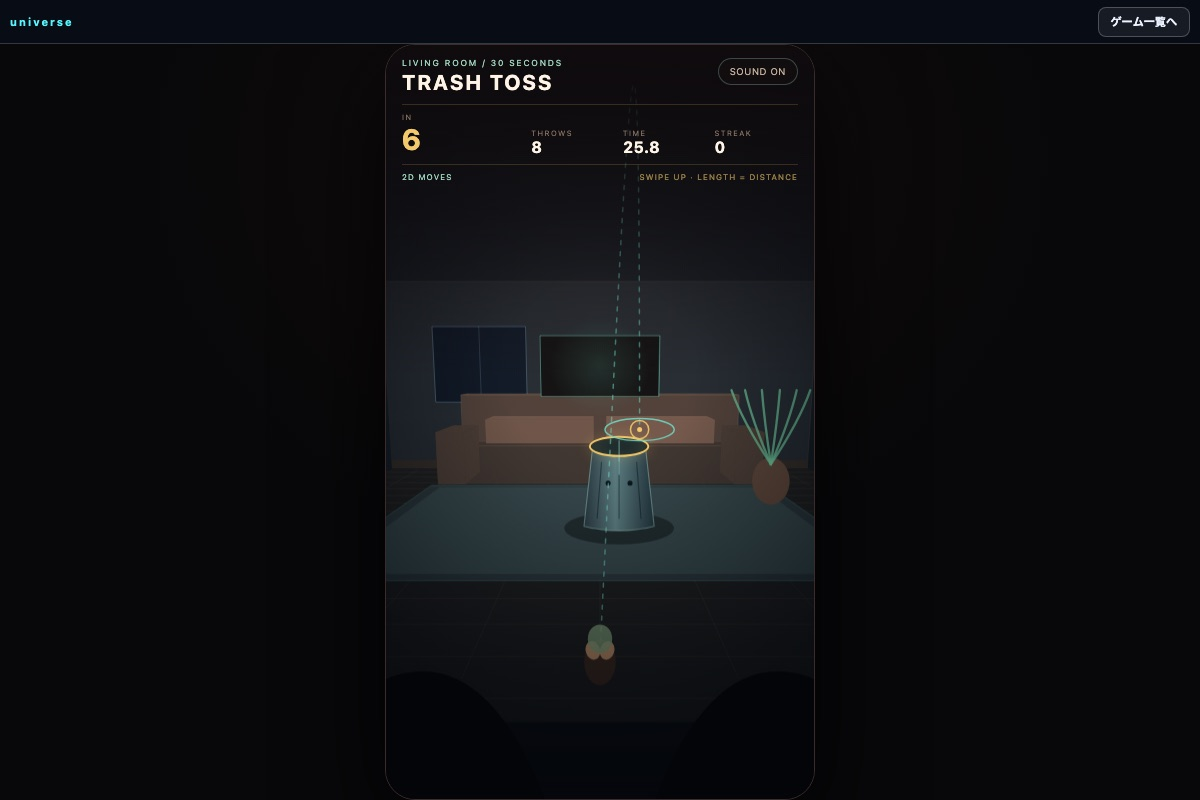
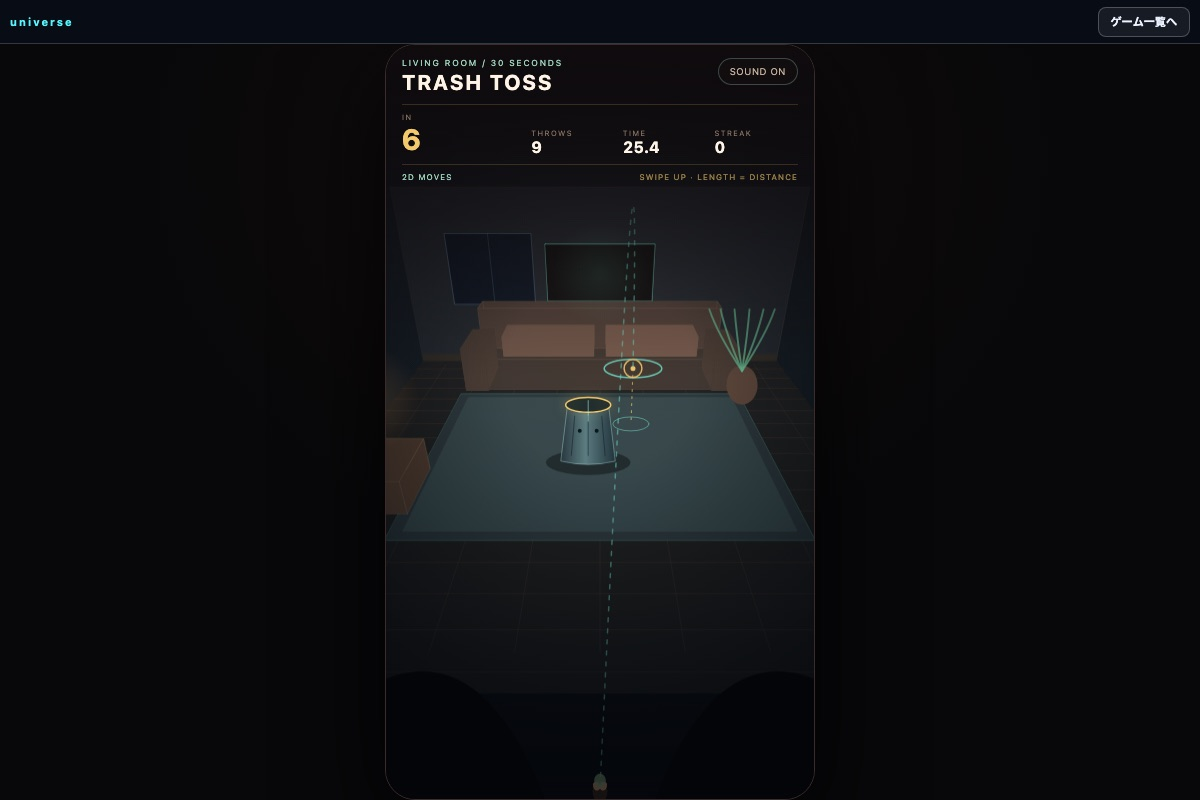
fix: TRASH TOSSのカメラを斜め上35度に調整

diff --git a/projects/_labs/trash-toss/renderer.js b/projects/_labs/trash-toss/renderer.js
@@ -21,9 +21,10 @@
       if (ctx) { ctx.lineCap = 'round'; ctx.lineJoin = 'round'; }
     }
 
+    // Fixed camera: behind the thrower, about 34 degrees down into the room.
     function camera() {
-      var cam = { x: 0, y: 1.65, z: -2.8 };
-      var look = { x: 0, y: 0.55, z: 3.0 };
+      var cam = { x: 0, y: 3.8, z: -2.8 };
+      var look = { x: 0, y: 0.05, z: 2.8 };
       var fx = look.x - cam.x, fy = look.y - cam.y, fz = look.z - cam.z;
       var fl = Math.sqrt(fx * fx + fy * fy + fz * fz);
       var forward = { x: fx / fl, y: fy / fl, z: fz / fl };
@@ -41,7 +42,7 @@
         forward: forward,
         right: right,
         up: { x: ux / ul, y: uy / ul, z: uz / ul },
-        focal: Math.min(width * 1.60, height * 0.80),
+        focal: Math.min(width * 1.35, height * 0.70),
         cx: width / 2,
         cy: height * 0.58
       };
@@ -311,8 +312,21 @@
       ctx.stroke();
       ctx.setLineDash([]);
       var aim = project(c, state.aim.x, 0.92, state.aim.z);
-      if (aim) {
+      var floorAim = project(c, state.aim.x, 0.02, state.aim.z);
+      if (aim && floorAim) {
         var pulse = 1 + Math.sin(t * 6) * 0.08;
+        ctx.strokeStyle = 'rgba(244, 201, 107, 0.72)';
+        ctx.lineWidth = 1;
+        ctx.setLineDash([2, 5]);
+        ctx.beginPath();
+        ctx.moveTo(aim.x, aim.y);
+        ctx.lineTo(floorAim.x, floorAim.y);
+        ctx.stroke();
+        ctx.setLineDash([]);
+        ctx.strokeStyle = 'rgba(111, 214, 195, 0.55)';
+        ctx.beginPath();
+        ctx.ellipse(floorAim.x, floorAim.y, 0.26 * floorAim.scale * pulse, 0.1 * floorAim.scale * pulse, 0, 0, Math.PI * 2);
+        ctx.stroke();
         ctx.strokeStyle = 'rgba(244, 201, 107, 0.9)';
         ctx.lineWidth = 1.5;
         ctx.beginPath();

diff --git a/projects/_labs/trash-toss/index.html b/projects/_labs/trash-toss/index.html
@@ -6,7 +6,7 @@
   <meta name="theme-color" content="#140f12" />
   <meta name="description" content="TRASH TOSS — swipe to toss trash into a moving bin in a cozy living room. 30 seconds, unlimited throws." />
   <title>TRASH TOSS</title>
-  <link rel="stylesheet" href="style.css?v=20261030-trashtoss1" />
+  <link rel="stylesheet" href="style.css?v=20261030-trashtoss2" />
 </head>
 <body>
   <div id="app">
@@ -69,10 +69,10 @@
     </div>
   </div>
 
-  <script src="engine.js?v=20261030-trashtoss1"></script>
-  <script src="audio.js?v=20261030-trashtoss1"></script>
-  <script src="renderer.js?v=20261030-trashtoss1"></script>
-  <script src="game.js?v=20261030-trashtoss1"></script>
+  <script src="engine.js?v=20261030-trashtoss2"></script>
+  <script src="audio.js?v=20261030-trashtoss2"></script>
+  <script src="renderer.js?v=20261030-trashtoss2"></script>
+  <script src="game.js?v=20261030-trashtoss2"></script>
   <script src="../../_shared/game-back.js"></script>
 </body>
 </html>

diff --git a/projects/_labs/trash-toss/README.md b/projects/_labs/trash-toss/README.md
@@ -1,6 +1,6 @@
 # TRASH TOSS
 
-固定カメラのリビングで、動き回るゴミ箱へゴミを投げ入れる30秒の3D風トスゲームです。UIは英語のみです。
+投げ手の後ろ斜め上35度からの固定カメラで、動き回るゴミ箱へゴミを投げ入れる30秒の3D風トスゲームです。UIは英語のみです。
 
 - **スワイプ** — 上方向へドラッグして投げる
 - **長さ** — 長いスワイプほど奥へ飛ぶ
@@ -23,7 +23,7 @@
 - 入った判定は、着地点とゴミ箱の中心の距離。開口部半径の82%以内でIN、24%以内でPERFECT。
 - 入るたびにストリークが伸び、外すと0に戻る。
 - ベストIN数は `localStorage` に保存。
-- カメラは投げ手の後ろに固定。
+- カメラは投げ手の後ろ斜め上、約35度の固定視点。真上にはせず、床のパースと箱の大小で奥行きを読む。
 
 ## 見た目と音
 
@@ -49,7 +49,7 @@ trash-toss/
 
 ## 設計の要点
 
-- **3D座標でゲーム、描画は疑似3D**: x（左右）、y（高さ）、z（奥行き）で投擲と箱を管理し、固定カメラの透視投影でCanvasに描く。Three.jsなどの依存はない。
+- **3D座標でゲーム、描画は疑似3D**: x（左右）、y（高さ）、z（奥行き）で投擲と箱を管理し、投げ手の後ろ斜め上35度の固定カメラから透視投影でCanvasに描く。Three.jsなどの依存はない。
 - **スワイプをそのまま3Dに変換**: `dx` を左右、スワイプ長を奥行きにマップ。着地点までの放物線はエンジンが計算し、プレビューと実際の投擲で同じ軌道を使う。
 - **箱のランダム移動**: 左右は最初から、前後は15秒から。箱が動く間に着地点を選ぶため、単なる座標合わせではなく先読みが要る。
 - **投げ放題＋クールダウン**: 30秒という短い制限の中で、連投のテンポと正確さのバランスを取る。

diff --git a/docs/learning-log.md b/docs/learning-log.md
@@ -13,6 +13,13 @@
 - 次に試すこと:
 ```
 
+## 2026-10-30 TRASH TOSS v1.1（斜め上35度の固定カメラ）
+
+- やったこと: TRASH TOSSのカメラを投げ手の後ろ・斜め上35度の固定視点に調整した。真上からの見下ろしにはせず、床のパース、箱の大小、影、手前のシルエットで奥行きを読めるようにした。サムネイルも更新。
+- 学んだこと: 2D画面で奥行きを判断するには、真上からの配置図より「斜め上から床を見る」方が、箱の前後位置と大きさの変化が同時に見えて強い。投げるゲームでは、目標の箱だけでなく、着地点リングと床のパースを同じ画面に置くと距離感が生まれる。
+- 詰まったこと: カメラを高くしすぎると完全な見下ろしになって投げ手の位置が消え、低すぎると箱が小さく重なって奥行きが読めない。35度前後で、箱の開口部・床の影・手前の手元が同時に見える位置に調整した。
+- 次に試すこと: 箱の前後移動を強調する床の目印、リムバウンド、スワイプ長の感度調整、実機での距離感確認。
+
 ## 2026-10-30 TRASH TOSS v1（30秒・疑似3Dのゴミ投げ）
 
 - やったこと: 固定カメラのリビングで、動くゴミ箱へゴミを投げ入れる30秒の疑似3Dトスゲーム「TRASH TOSS」を追加した。スワイプの長さを奥行き、横方向を左右に変換。投げ放題でIN数・PERFECT・命中率・最大ストリークを競う。箱は左右ランダム、15秒から前後もランダム。Canvasの透視投影、軌道プレビュー、WebAudio。

diff --git a/docs/game-seeds.md b/docs/game-seeds.md
@@ -46,7 +46,7 @@
 - 状態: v1 実装済み（[`trash-toss/`](../projects/_labs/trash-toss/)）
 - 一言: 固定カメラのリビングで、前後左右に動くゴミ箱へゴミを投げ入れる30秒の3D風トスゲーム
 - スルメ要素: スワイプの長さで奥行き、横で左右を狙う。軌道プレビューを見ながら、動く箱の未来位置へ投げる。15秒以降は前後移動も加わり、距離感と先読みが難しくなる
-- 実装メモ: 30秒、投げ放題（0.22秒間隔）、箱は左右ランダム→15秒から前後も。Canvasの透視投影でx/y/zを描画。スワイプ長でz、dxでxを決定。放物線プレビュー、IN/PERFECT、IN数・命中率・PERFECT・最大ストリーク、ベスト保存。Three.jsなし
+- 実装メモ: 30秒、投げ放題（0.22秒間隔）、箱は左右ランダム→15秒から前後も。Canvasの透視投影（投げ手の後ろ斜め上35度固定カメラ）でx/y/zを描画。スワイプ長でz、dxでxを決定。放物線プレビュー、IN/PERFECT、IN数・命中率・PERFECT・最大ストリーク、ベスト保存。Three.jsなし
 
 ## 保留
 
